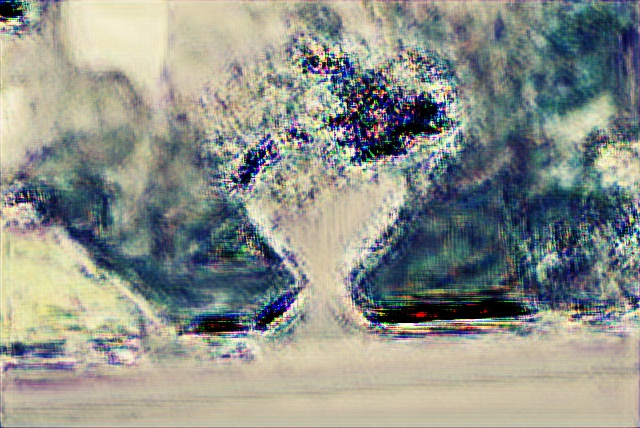
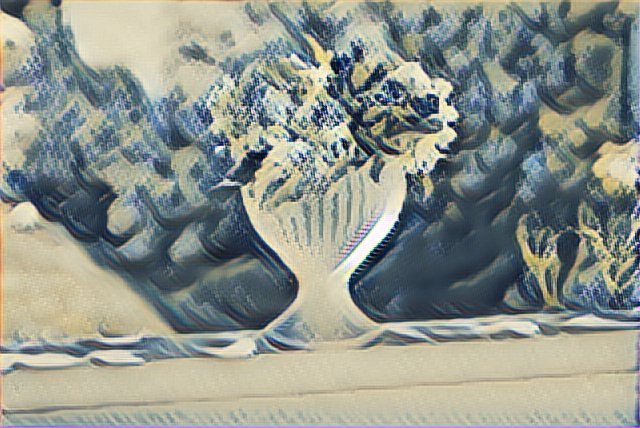
train more data

diff --git a/eval.py b/eval.py
@@ -1,0 +1,71 @@
+# coding: utf-8
+from __future__ import print_function
+import tensorflow as tf
+from process_image import get_eval_image
+import my_model
+import time
+import os
+tf.app.flags.DEFINE_string('loss_model', 'vgg_16', 'The name of the architecture to evaluate. '
+                           'You can view all the support models in nets/nets_factory.py')
+tf.app.flags.DEFINE_integer('image_size', 256, 'Image size to train.')
+tf.app.flags.DEFINE_string("model_file", "./output/fast-style-model.ckpt-done", "")
+tf.app.flags.DEFINE_string("image_file", "./train2014/test1.jpg", "")
+
+FLAGS = tf.app.flags.FLAGS
+
+
+def main(_):
+
+    # Get image's height and width.
+    height = 0
+    width = 0
+    with open(FLAGS.image_file, 'rb') as img:
+        with tf.Session().as_default() as sess:
+            if FLAGS.image_file.lower().endswith('png'):
+                image = sess.run(tf.image.decode_png(img.read()))
+            else:
+                image = sess.run(tf.image.decode_jpeg(img.read()))
+            height = image.shape[0]
+            width = image.shape[1]
+    tf.logging.info('Image size: %dx%d' % (width, height))
+
+    with tf.Graph().as_default():
+        with tf.Session().as_default() as sess:
+
+            # Read image data.
+            image = get_eval_image(FLAGS.image_file, height, width)
+
+            # Add batch dimension
+            image = tf.expand_dims(image, 0)
+
+            generated = my_model.get_my_model(image)
+            generated = tf.cast(generated, tf.uint8)
+
+            # Remove batch dimension
+            generated = tf.squeeze(generated, [0])
+
+            # Restore model variables.
+            saver = tf.train.Saver(tf.global_variables(), write_version=tf.train.SaverDef.V2)
+            sess.run([tf.global_variables_initializer(), tf.local_variables_initializer()])
+            # Use absolute path
+            FLAGS.model_file = os.path.abspath(FLAGS.model_file)
+            saver.restore(sess, FLAGS.model_file)
+
+            # Make sure 'generated' directory exists.
+            generated_file = 'generated/res.jpg'
+            if os.path.exists('generated') is False:
+                os.makedirs('generated')
+
+            # Generate and write image data to file.
+            with open(generated_file, 'wb') as img:
+                start_time = time.time()
+                img.write(sess.run(tf.image.encode_jpeg(generated)))
+                end_time = time.time()
+                tf.logging.info('Elapsed time: %fs' % (end_time - start_time))
+
+                tf.logging.info('Done. Please check %s.' % generated_file)
+
+
+if __name__ == '__main__':
+    tf.logging.set_verbosity(tf.logging.INFO)
+    tf.app.run()

diff --git a/train.py b/train.py
@@ -8,11 +8,11 @@ import imageio
 class CONFIG:
     IMAGE_WIDTH = 256
     IMAGE_HEIGHT = 256
-    BATCH_SIZE = 3
+    BATCH_SIZE = 4
     COLOR_CHANNELS = 3
     VGG_MODEL = 'pretrained-model/imagenet-vgg-verydeep-19.mat'  # Pick the VGG 19-layer model by from the paper "Very Deep Convolutional Networks for Large-Scale Image Recognition".
     STYLE_IMAGE = 'images/wave.jpg'  # Style image to use.
-    CONTENT_IMAGE_FILE = './train2014'  # Content image to use.
+    CONTENT_IMAGE_FILE = 'E:/python学习/PycharmProjects/train2014/train2014'  # Content image to use.
     OUTPUT_DIR = 'output/'
 
     W_CONTENT = 1
@@ -24,7 +24,7 @@ def train_fnst():
                                                  CONFIG.IMAGE_HEIGHT, CONFIG.IMAGE_WIDTH)
         with tf.Session() as sess:
             train_data = train_image(CONFIG.BATCH_SIZE, CONFIG.IMAGE_HEIGHT,
-                               CONFIG.IMAGE_WIDTH, CONFIG.CONTENT_IMAGE_FILE,epochs=1000)
+                               CONFIG.IMAGE_WIDTH, CONFIG.CONTENT_IMAGE_FILE,epochs=2)
             y_data = my_model.get_my_model(train_data)
             process_data = [reshape_and_normalize_image(image)
                           for image in tf.unstack(y_data, axis=0, num=CONFIG.BATCH_SIZE)]
@@ -63,10 +63,11 @@ def train_fnst():
                     if step%10 == 0:
                       print('step: %d, total Loss %f, secs/step: %f'
                                         %(step,loss_t, elapsed_time))
-                    if step == 1500:
+                    if step % 5000 == 0:
                         for index in range(3):
                             imge = np.clip(y[index],0,255).astype('uint8')
                             imageio.imsave(CONFIG.OUTPUT_DIR+str(index)+".jpg",imge);
+                        saver.save(sess, './output/fast-style-model.ckpt-done')
             except tf.errors.OutOfRangeError:
                 print("done")
                 saver.save(sess, './output/fast-style-model.ckpt-done')
